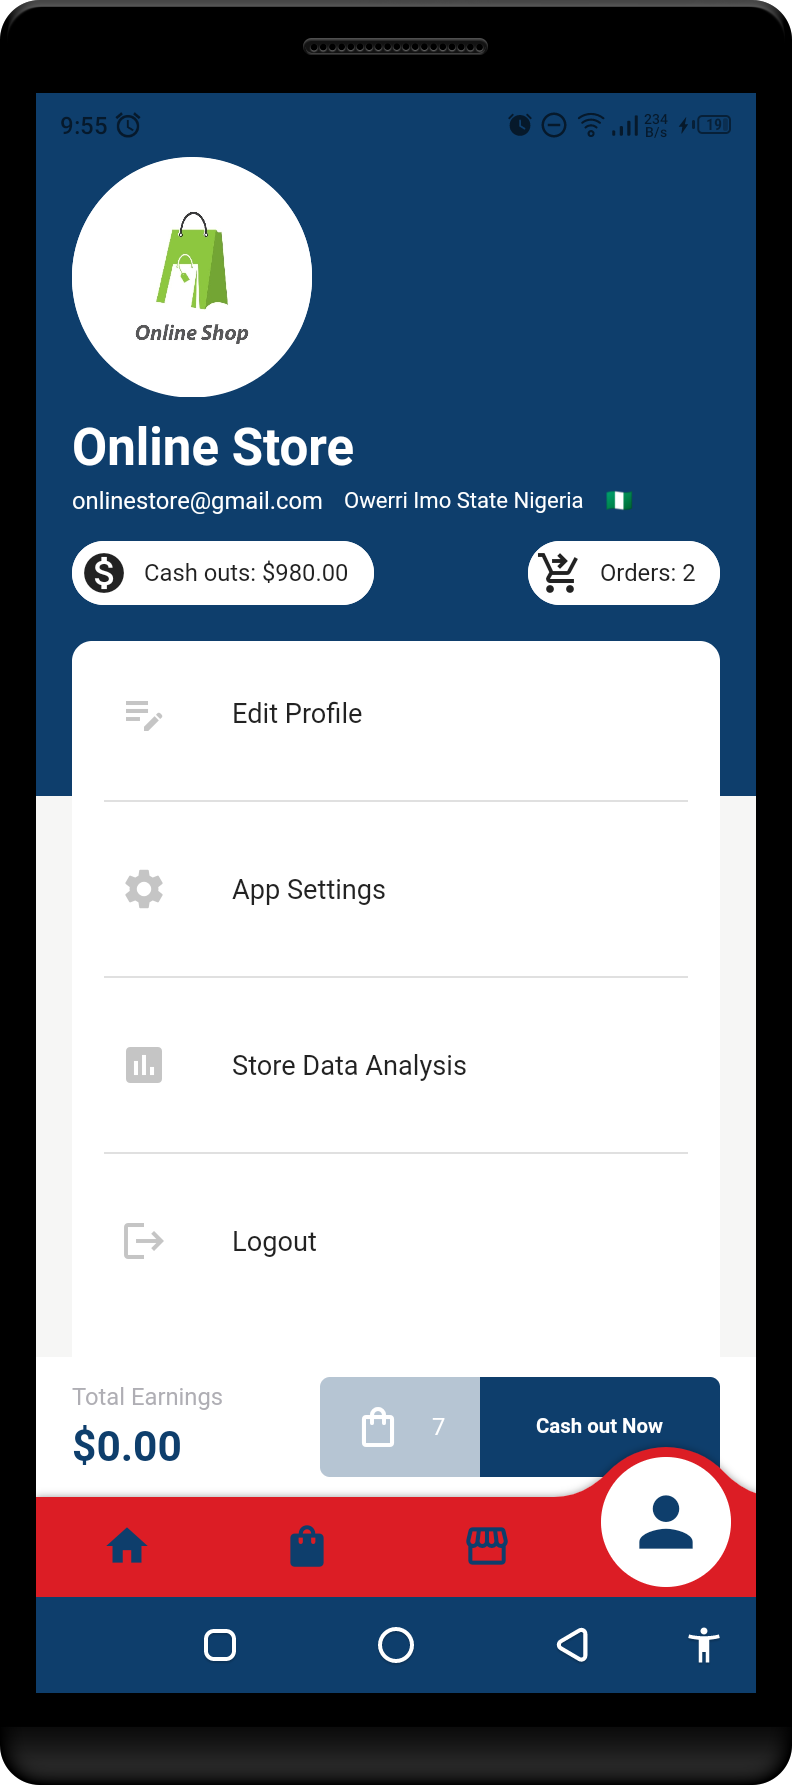
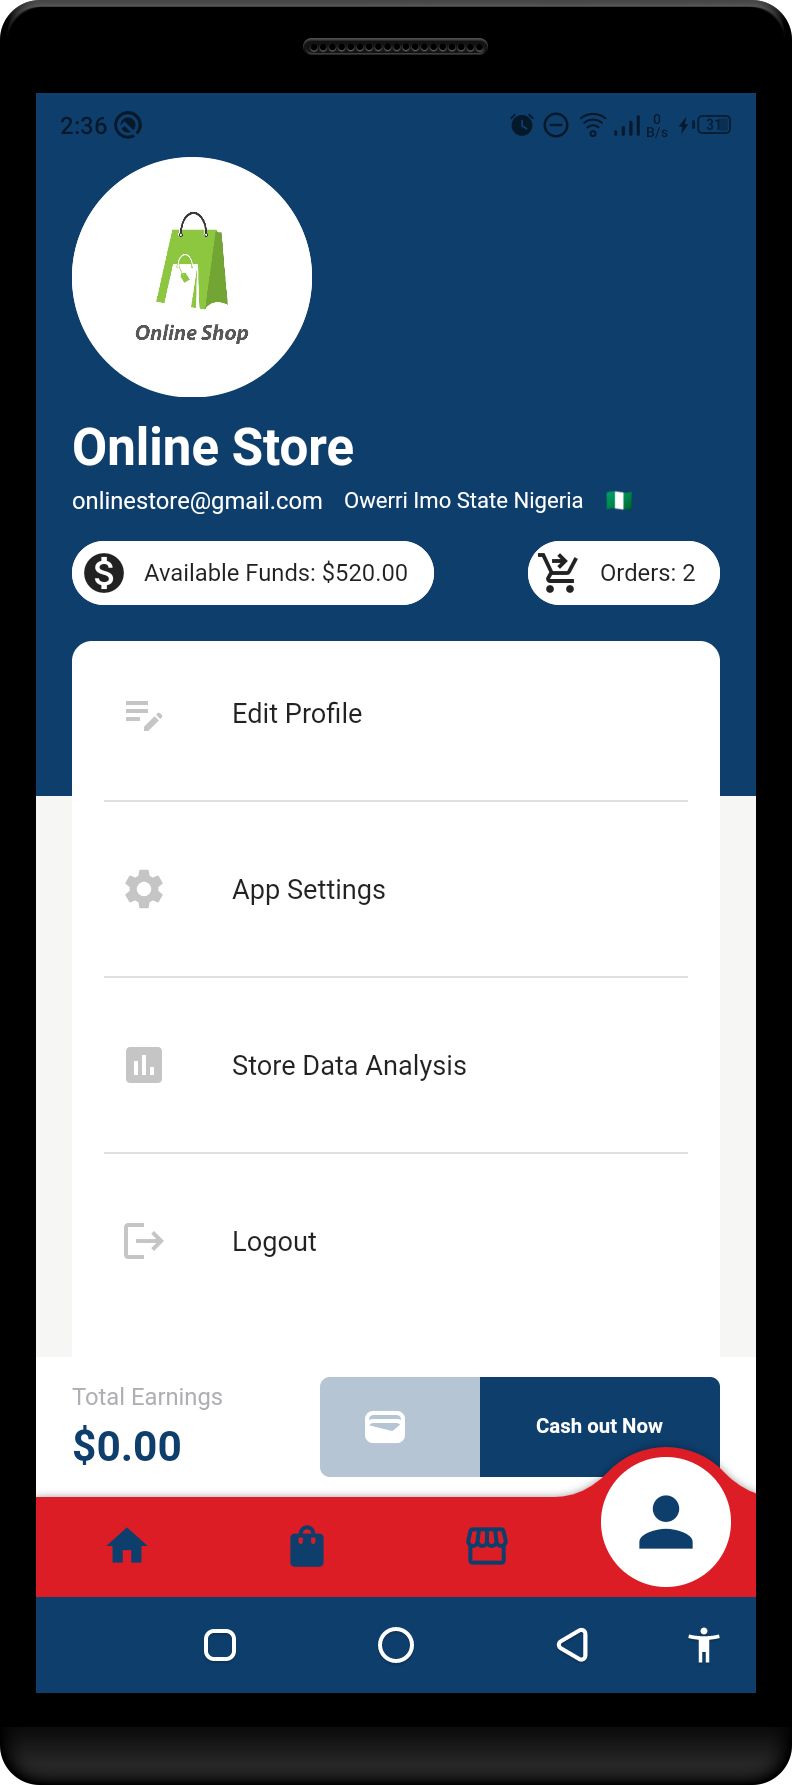
vendor delivery and approval of order refactoring

diff --git a/lib/constants/firebase_refs/collections.dart b/lib/constants/firebase_refs/collections.dart
@@ -19,6 +19,6 @@ class FirebaseCollections {
   static final ordersCollection =
       FirebaseFirestore.instance.collection('orders');
 
-  static final checkoutCollection =
-      FirebaseFirestore.instance.collection('checkouts');
+  static final cashOutCollection =
+      FirebaseFirestore.instance.collection('cash_outs');
 }
